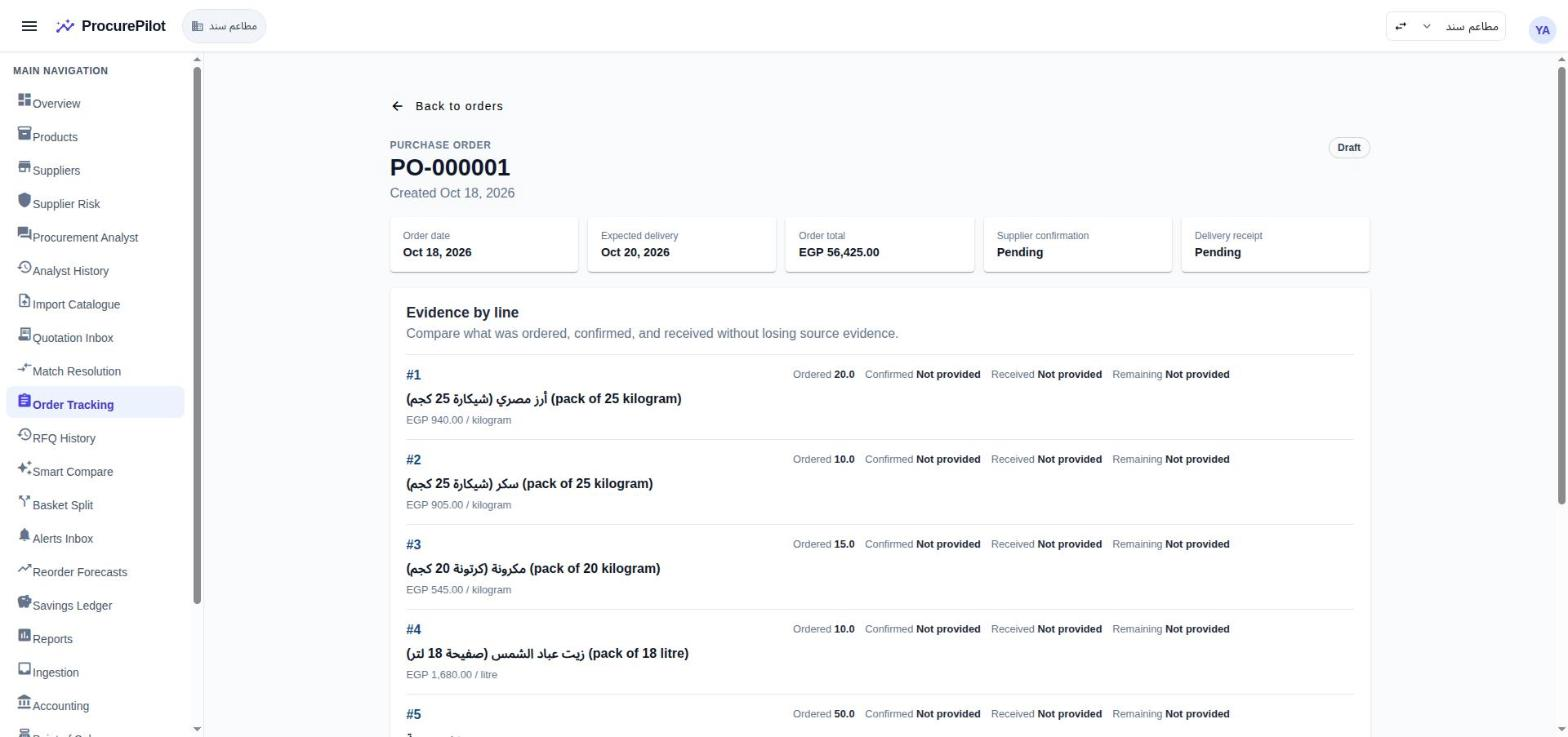
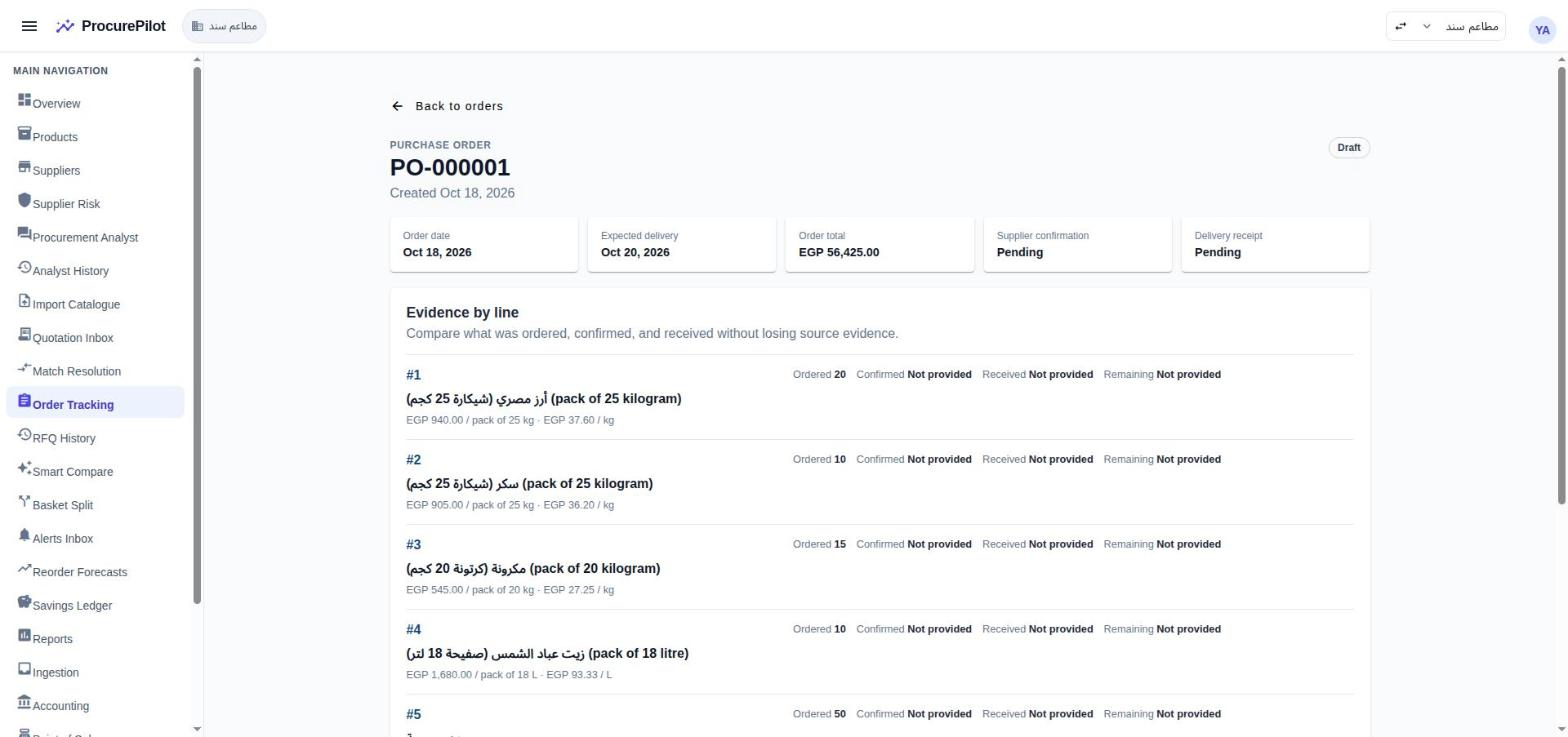
docs(gtm): round-1 walkthrough — PO labels fixed by #128, retaken screenshot

diff --git a/docs/gtm/demo-tenant/round-1/README.md b/docs/gtm/demo-tenant/round-1/README.md
@@ -76,7 +76,7 @@ Approval Queue (web). The phone approval is tested separately.
 quantities and prices and canonical base units (#110, #112). Set the expected delivery date and
 create. The PO is a draft until submitted; ProcurePilot never writes back to suppliers or accounting.
 
-![PO-000001: lines, total EGP 56,425](07-po-lines.jpg)
+![PO-000001: lines priced per pack and per base unit, total EGP 56,425](07-po-lines.jpg)
 
 ![PO-000001: evidence actions and timeline](08-po-actions.jpg)
 
@@ -88,15 +88,15 @@ create. The PO is a draft until submitted; ProcurePilot never writes back to sup
 
 ## Open issues seen on these screens
 
-Being fixed in the "Fix on-camera label gaps from the round-1 PO run" session:
+Fixed by #128 (deployed 2026-10-18; screenshot 7 retaken after the fix):
 
-- PO lines show the per-pack price as per base unit ("EGP 940.00 / kilogram" is the price of a
-  25 kg sack).
-- English "(pack of 25 kilogram)" is appended to Arabic line descriptions.
-- Quantities shown as "50.000000" on RFQ Responses.
-- The new-request button on Purchase Requests is labelled "Save Draft".
-- Basket split with no matching offers shows a raw validation error.
-- The cost-centre list is not filtered by branch.
+- PO lines now show the price per pack and per base unit ("EGP 940.00 / pack of 25 kg · EGP 37.60 / kg").
+- Quantities show without trailing zeros ("20", not "20.000000").
+- The new-request button on Purchase Requests is labelled "New request".
+- Basket split with no offers at all shows a plain message instead of a validation error.
+- The cost-centre list is filtered to the selected branch.
+- New POs no longer append an English "(pack of …)" to Arabic descriptions. PO-000001 was created
+  before the fix, so its stored descriptions still carry it.
 
 Not yet raised:
 
